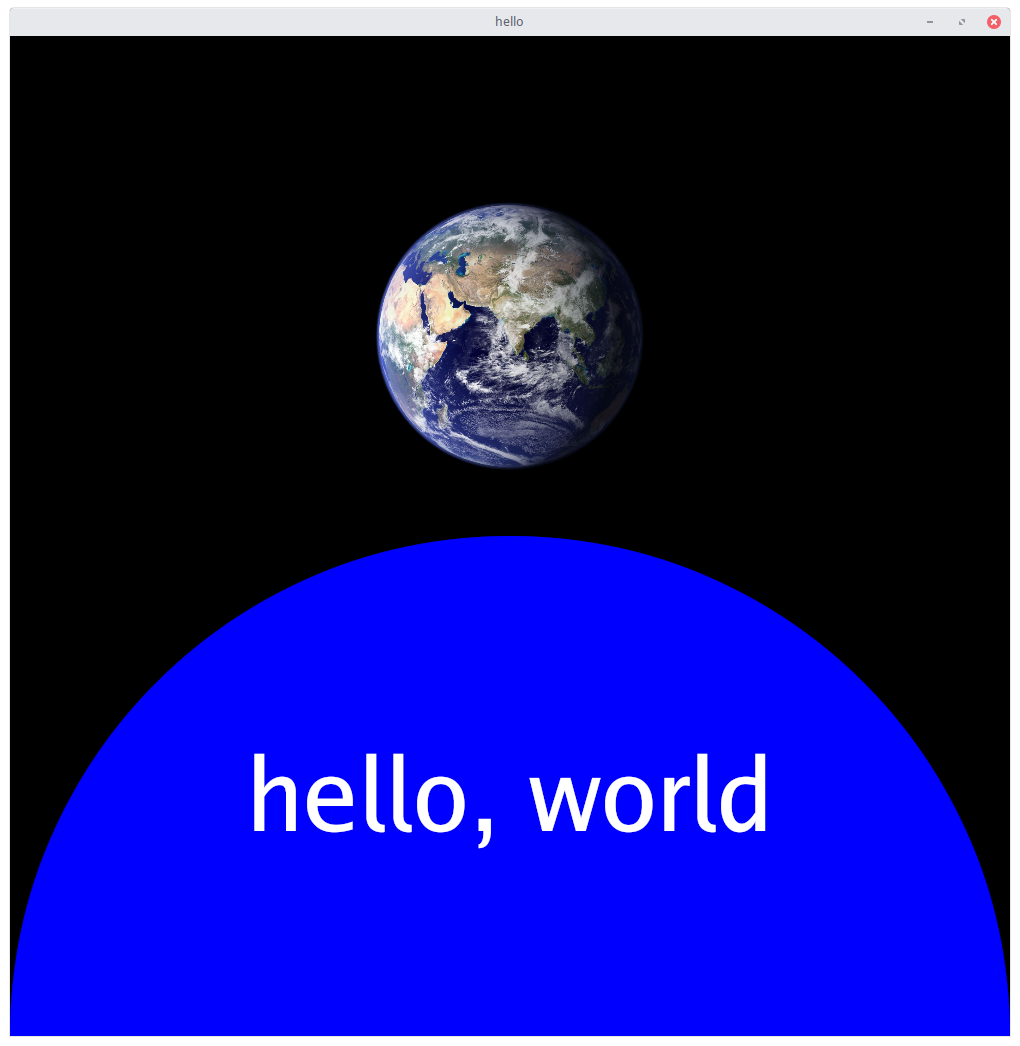
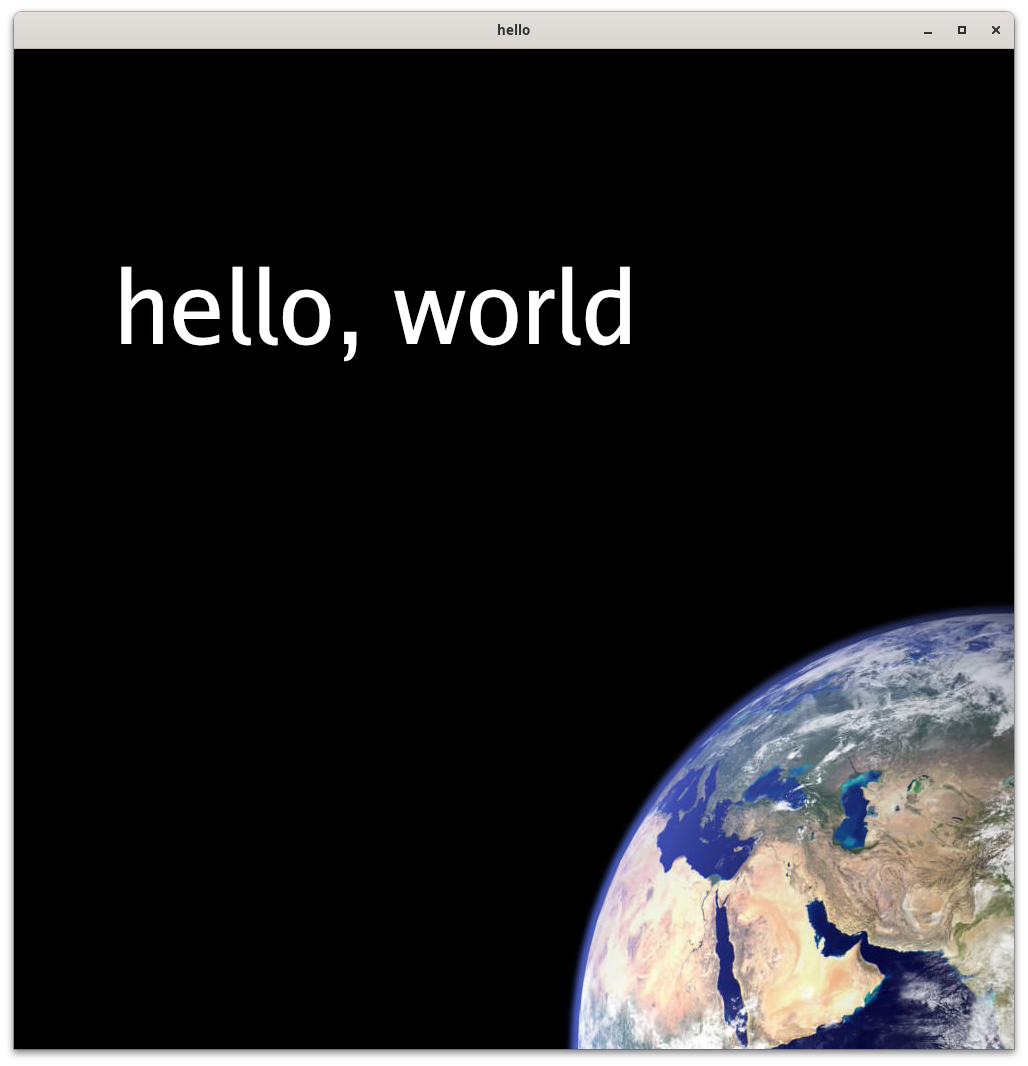
hello: simplify

diff --git a/hello/main.go b/hello/main.go
@@ -4,7 +4,6 @@ package main
 import (
 	"flag"
 	"image/color"
-	"io"
 	"os"
 
 	"gioui.org/app"
@@ -17,36 +16,22 @@ func main() {
 	flag.IntVar(&cw, "width", 1000, "canvas width")
 	flag.IntVar(&ch, "height", 1000, "canvas height")
 	flag.Parse()
-
-	width := float32(cw)
-	height := float32(ch)
-
-	go func() {
-		w := &app.Window{}
-		w.Option(app.Title("hello"), app.Size(unit.Dp(width), unit.Dp(height)))
-		if err := hello(w); err != nil {
-			io.WriteString(os.Stderr, "Cannot create the window\n")
-			os.Exit(1)
-		}
-		os.Exit(0)
-	}()
+	go hello(cw, ch)
 	app.Main()
 }
 
-func hello(w *app.Window) error {
-	black := color.NRGBA{0, 0, 0, 255}
-	blue := color.NRGBA{0, 0, 255, 255}
-	white := color.NRGBA{255, 255, 255, 255}
+func hello(width, height int) {
+	w := &app.Window{}
+	w.Option(app.Title("hello"), app.Size(unit.Dp(float32(width)), unit.Dp(float32(height))))
 	for {
 		switch e := w.Event().(type) {
 		case app.DestroyEvent:
-			return e.Err
+			os.Exit(0)
 		case app.FrameEvent:
 			canvas := giocanvas.NewCanvas(float32(e.Size.X), float32(e.Size.Y), app.FrameEvent{})
-			canvas.CenterRect(50, 50, 100, 100, black)
-			canvas.Circle(50, 0, 50, blue)
-			canvas.TextMid(50, 20, 10, "hello, world", white)
-			canvas.CenterImage("earth.jpg", 50, 70, 1000, 1000, 30)
+			canvas.Background(color.NRGBA{0, 0, 0, 255})
+			canvas.Image("earth.jpg", 100, 0, 1000, 1000, 100)
+			canvas.Text(10, 70, 10, "hello, world", color.NRGBA{255, 255, 255, 255})
 			e.Frame(canvas.Context.Ops)
 		}
 	}
